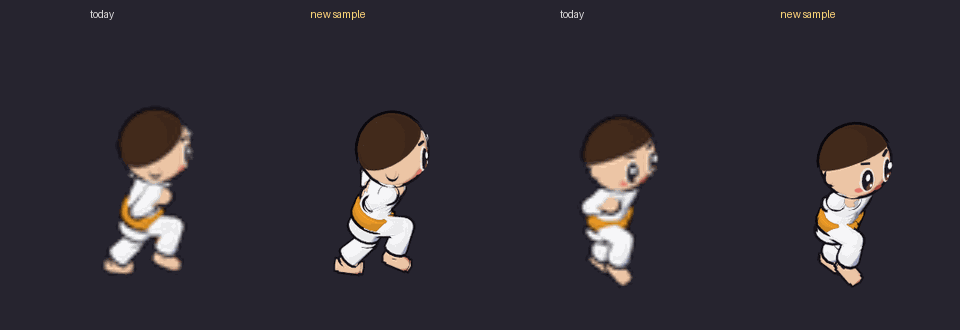
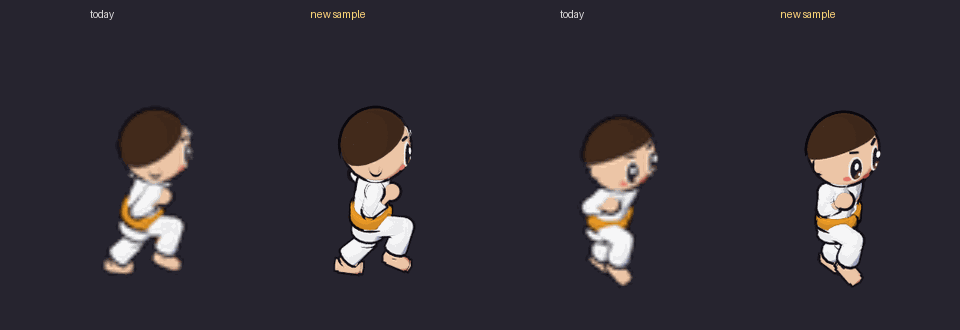
Hero v3 sample: upright athletic jog (less lean, calmer arms, keep sway and head bob)

Changed region(s): [[0.3438, 0.303, 0.4688, 0.7576], [0.8125, 0.3333, 0.9375, 0.7576]]

diff --git a/incoming-art/claude-hero-v3/source/hero_v3.py b/incoming-art/claude-hero-v3/source/hero_v3.py
@@ -23,6 +23,8 @@ ap.add_argument("--arms", type=float, default=1.35)
 ap.add_argument("--twist", type=float, default=1.2)
 ap.add_argument("--subsurf", type=int, default=0)
 ap.add_argument("--hand-out", type=float, default=0.08)
+ap.add_argument("--head-bob", type=float, default=0.06)
+ap.add_argument("--head-keep", type=float, default=1.2)
 a = ap.parse_args(argv)
 
 rig = bpy.data.objects["MartialArtistRig"]
@@ -72,7 +74,7 @@ amplify(fc(cv, B % ("hips", "location"), 1), a.bob)                      # bounc
 remap(fc(cv, B % ("hips", "rotation_euler"), 0), lambda fr, v: v + a.lean)  # lean into the run
 amplify(fc(cv, B % ("chest", "rotation_euler"), 1), a.twist)            # shoulder twist
 remap(fc(cv, B % ("head", "rotation_euler"), 0),                        # keep the face up, bob a beat late
-      lambda fr, v: v - a.lean * 1.2 + 0.06 * math.sin(2 * math.pi * 2 * (fr - 2) / n))
+      lambda fr, v: v - a.lean * a.head_keep + a.head_bob * math.sin(2 * math.pi * 2 * (fr - 2) / n))
 for side in ("L", "R"):
     for i in (1, 2):
         amplify(fc(cv, B % ("hand_ik." + side, "location"), i), a.arms)  # arms pump further
